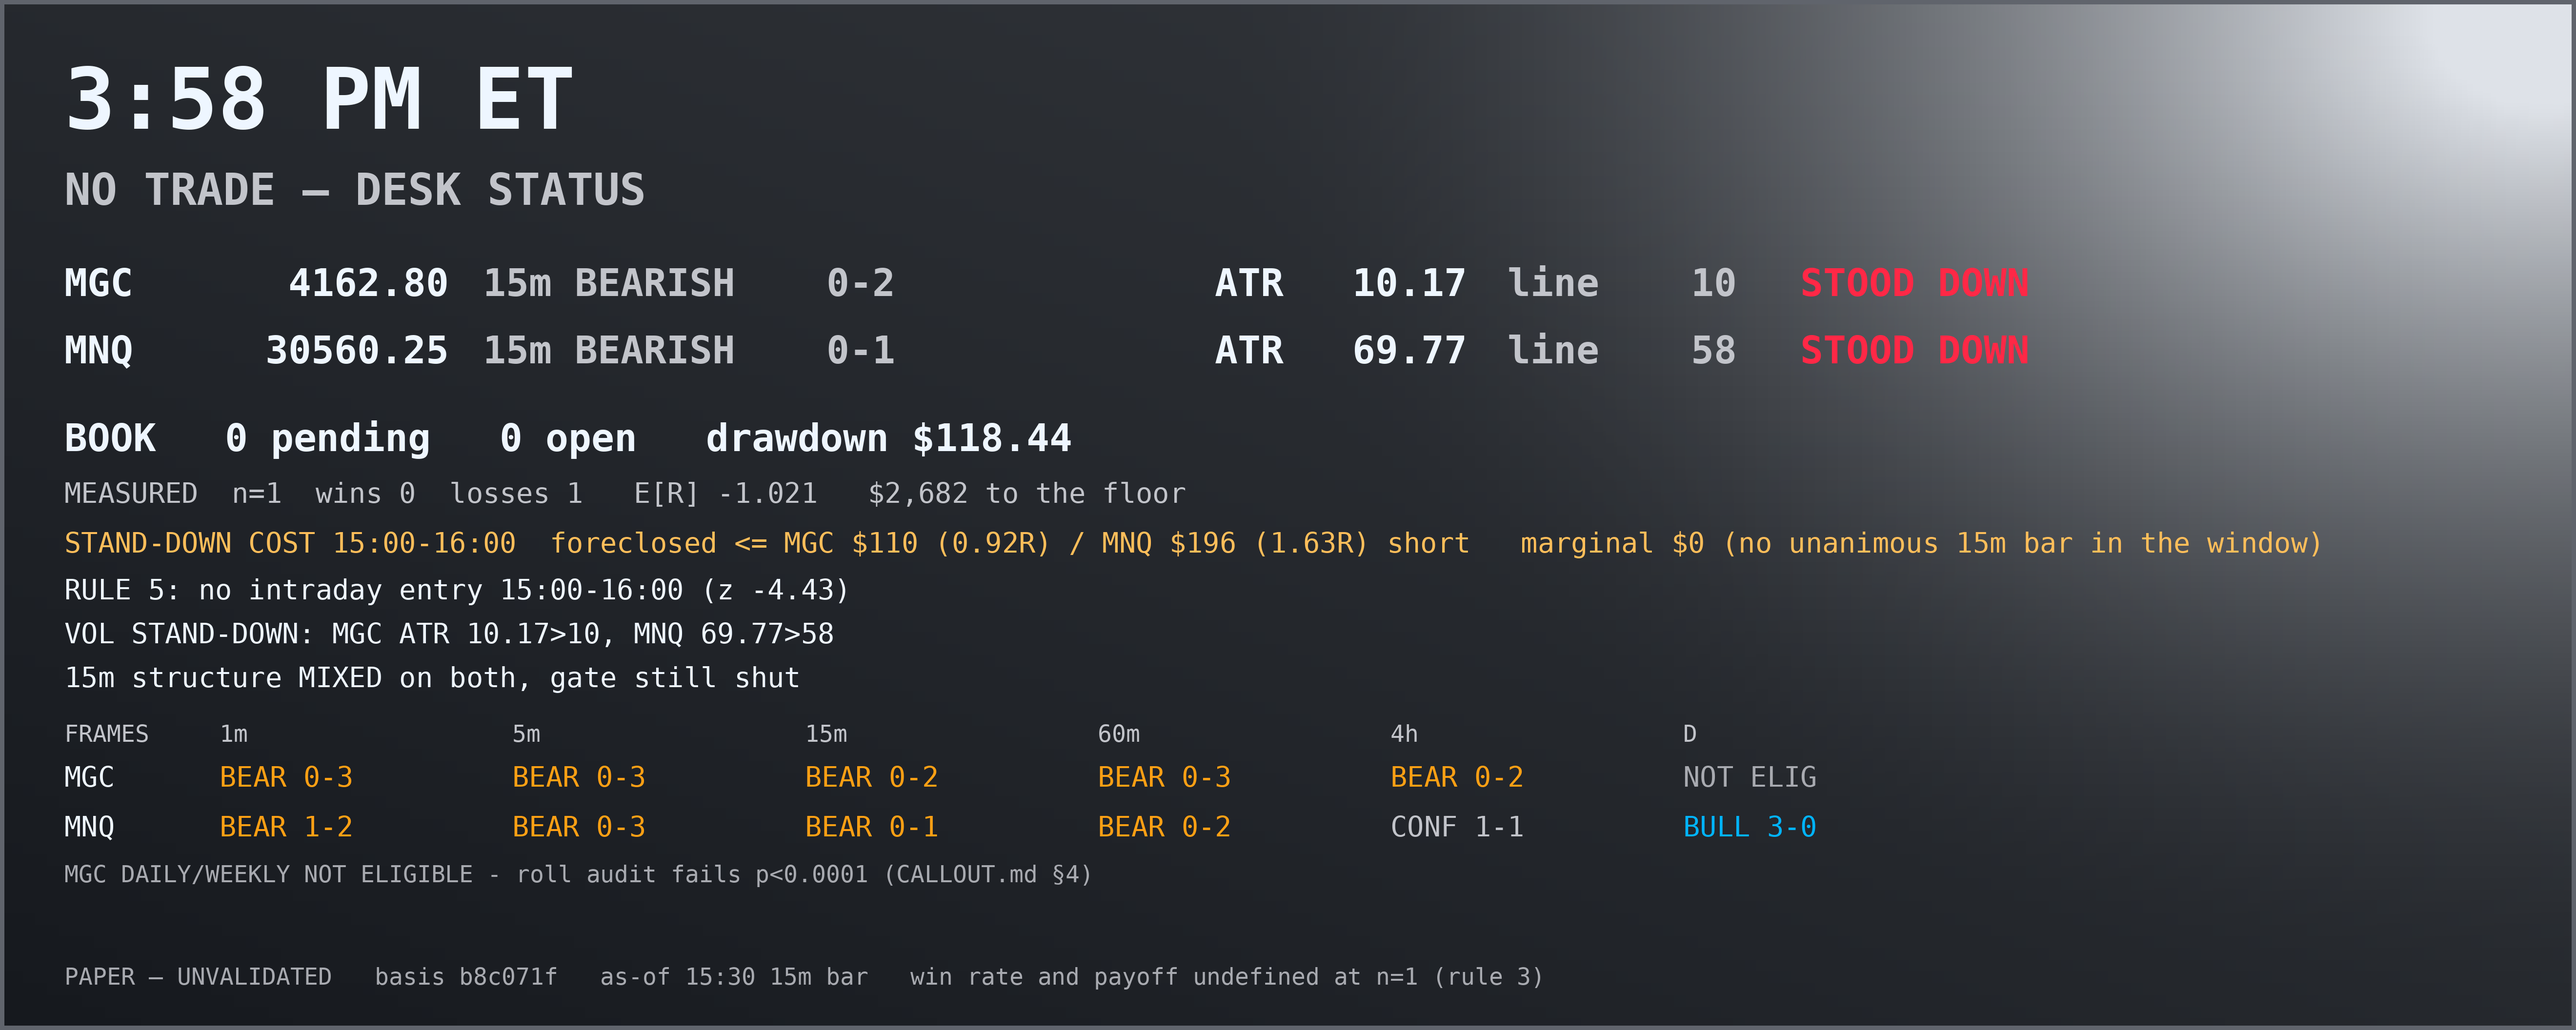
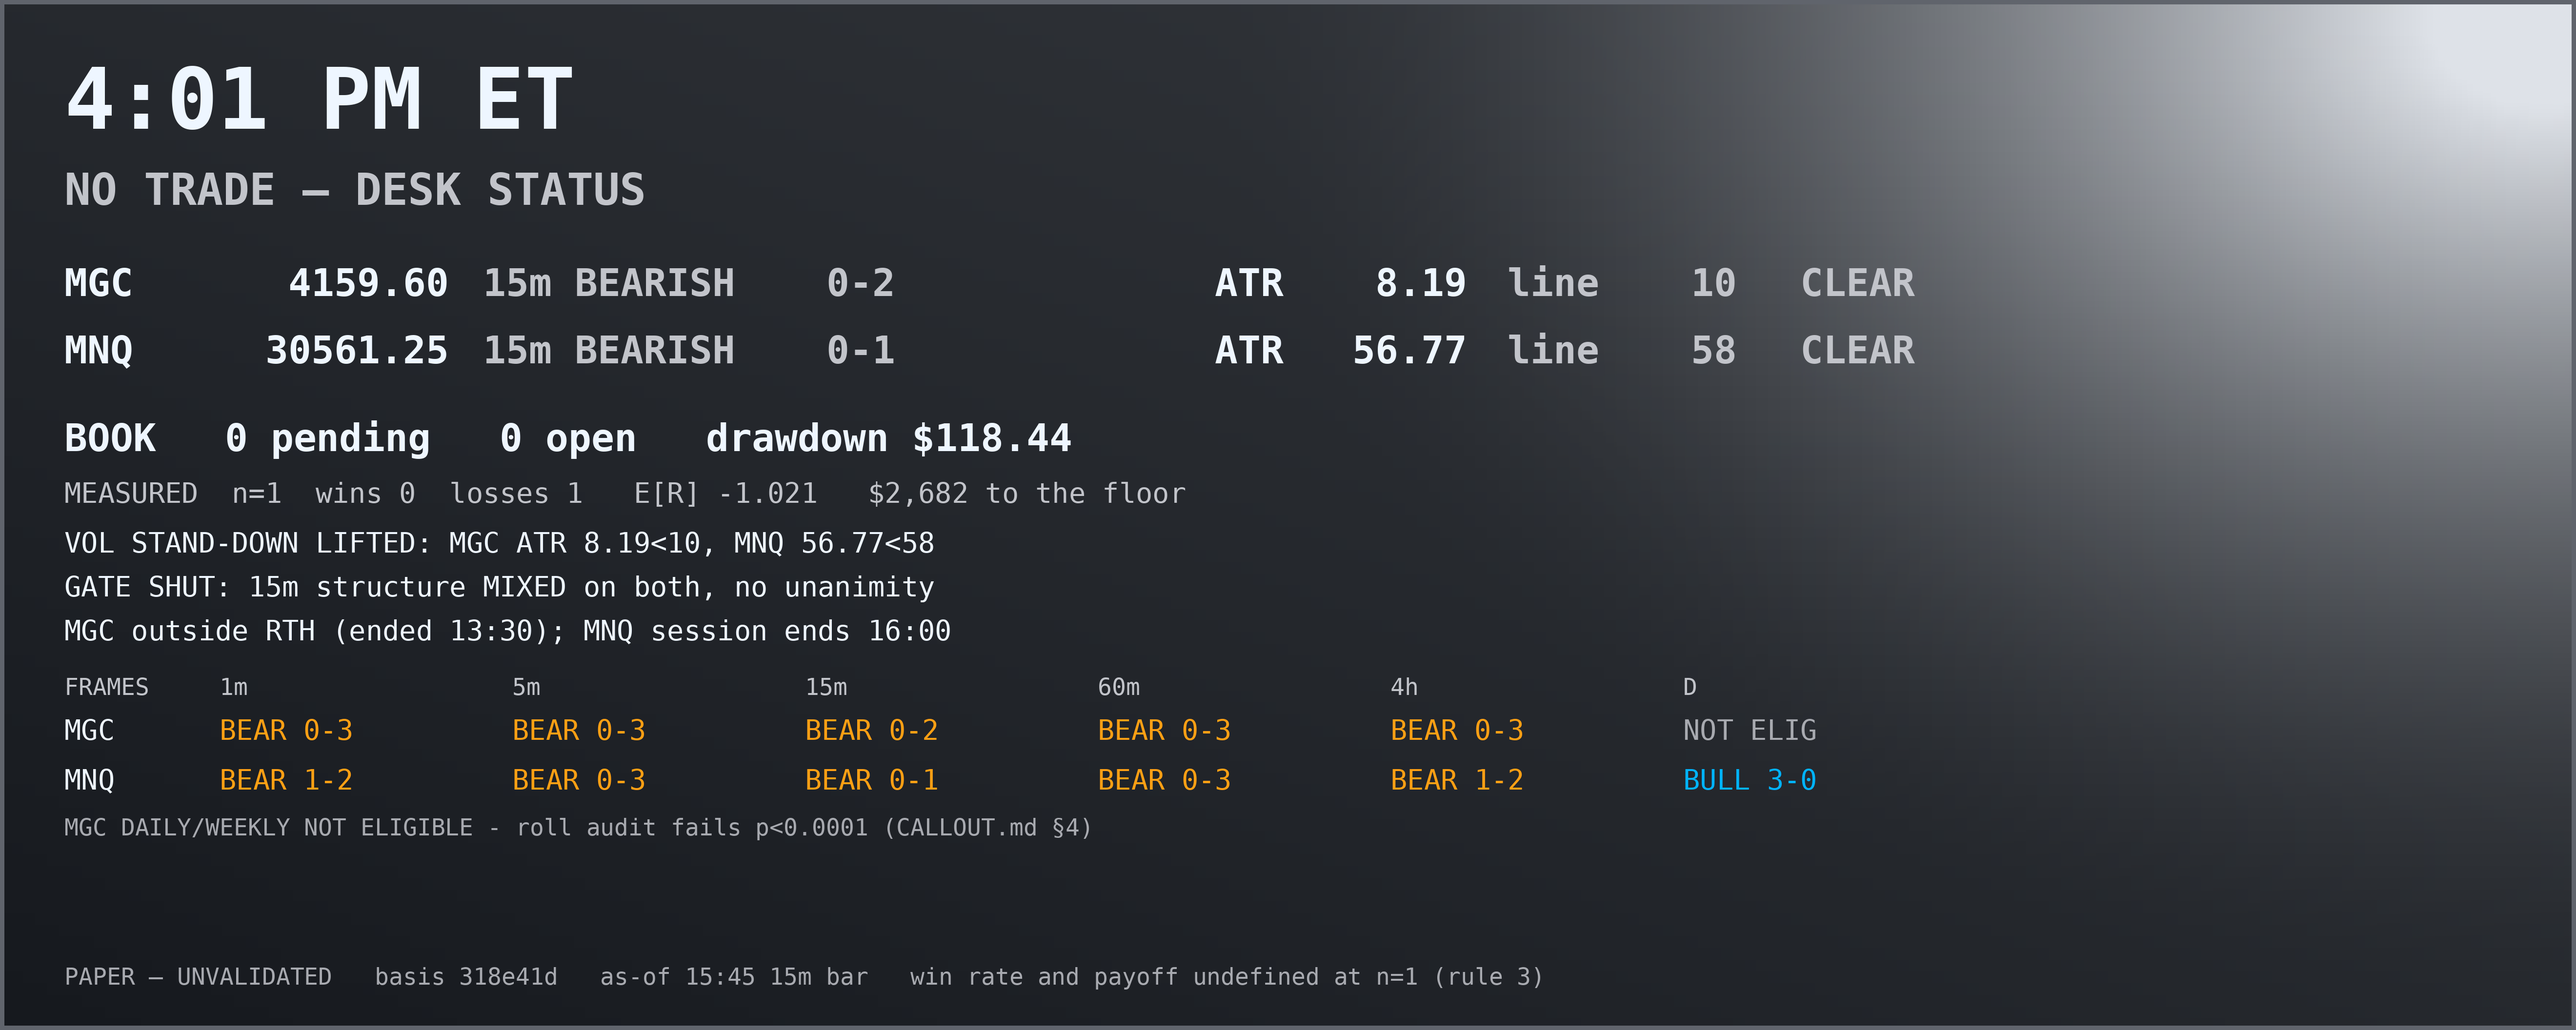
CALL desk: 16:00 - new 5m 15:50 and 15m 15:45 bars, lag 10.5m; BOTH ATRs clear the line as the 12:15 outlier ages out of the window, rule 5 expires, and the desk still stands down on a shut gate and the session end
Claude-Session: https://claude.ai/code/session_01EE6PFk7fGa2tM4KP6dpfWD

diff --git a/workspace/paper/CALL/DECISIONS.md b/workspace/paper/CALL/DECISIONS.md
@@ -55,6 +55,7 @@ the second is how a veto flatters itself and quoting only the first is how a tra
 | 12 | 14:52 | **Status card → silver gradient** (owner) | — | stays inside CALLOUT.md's grey NO TRADE family, so it still cannot be read as a direction; first render failed contrast in the mid-band and was fixed before sending | — |
 | 14 | 15:17 | **Stand-down held on both symbols** — MGC ATR14 10.44 > 10, MNQ 68.98 > 58; rule 5 also binds to 16:00 | foreclosed since 13:00 ≤ **MGC $181 (1.51R) / MNQ $186 (1.55R)** — full favourable excursion, not a profit I would have taken | **$0 marginal** — no unanimous 15m bar printed since 13:00, so no setup I would have entered was refused | — |
 | 15 | 15:52 | **Held the stand-down through the whole 15:00-16:00 window** — rule 5 plus MGC ATR 10.17>10 and MNQ 69.77>58, across 30 consecutive 2-min checks | foreclosed ≤ **MGC $110 (0.92R) / MNQ $196 (1.63R)** on the short side; both symbols fell all hour and I took none of it | **$0 marginal** — structure stayed MIXED on both 15m frames for the entire window, so the gate never opened and the vetoes refused nothing the desk would have taken | — |
+| 16 | 16:00 | **Volatility stand-down LIFTED on both** — MGC ATR 10.17→8.19, MNQ 69.77→56.77 when the 12:15 outlier bar (MNQ TR 210.75) left the 14-bar window; rule 5 also expired | — | the veto that bound for 3 hours is off, and the desk **still** does not trade: the 15m gate is shut on MIXED structure, MGC is outside RTH (ended 13:30) and MNQ's session ends at 16:00 | the lift is a window artifact as much as a regime change — recent 15m TRs do average below the line (last 6: ~47 MNQ), so it is honest, but it arrived by an outlier ageing out, not by calm |
 
 ### What the tally actually says
 
